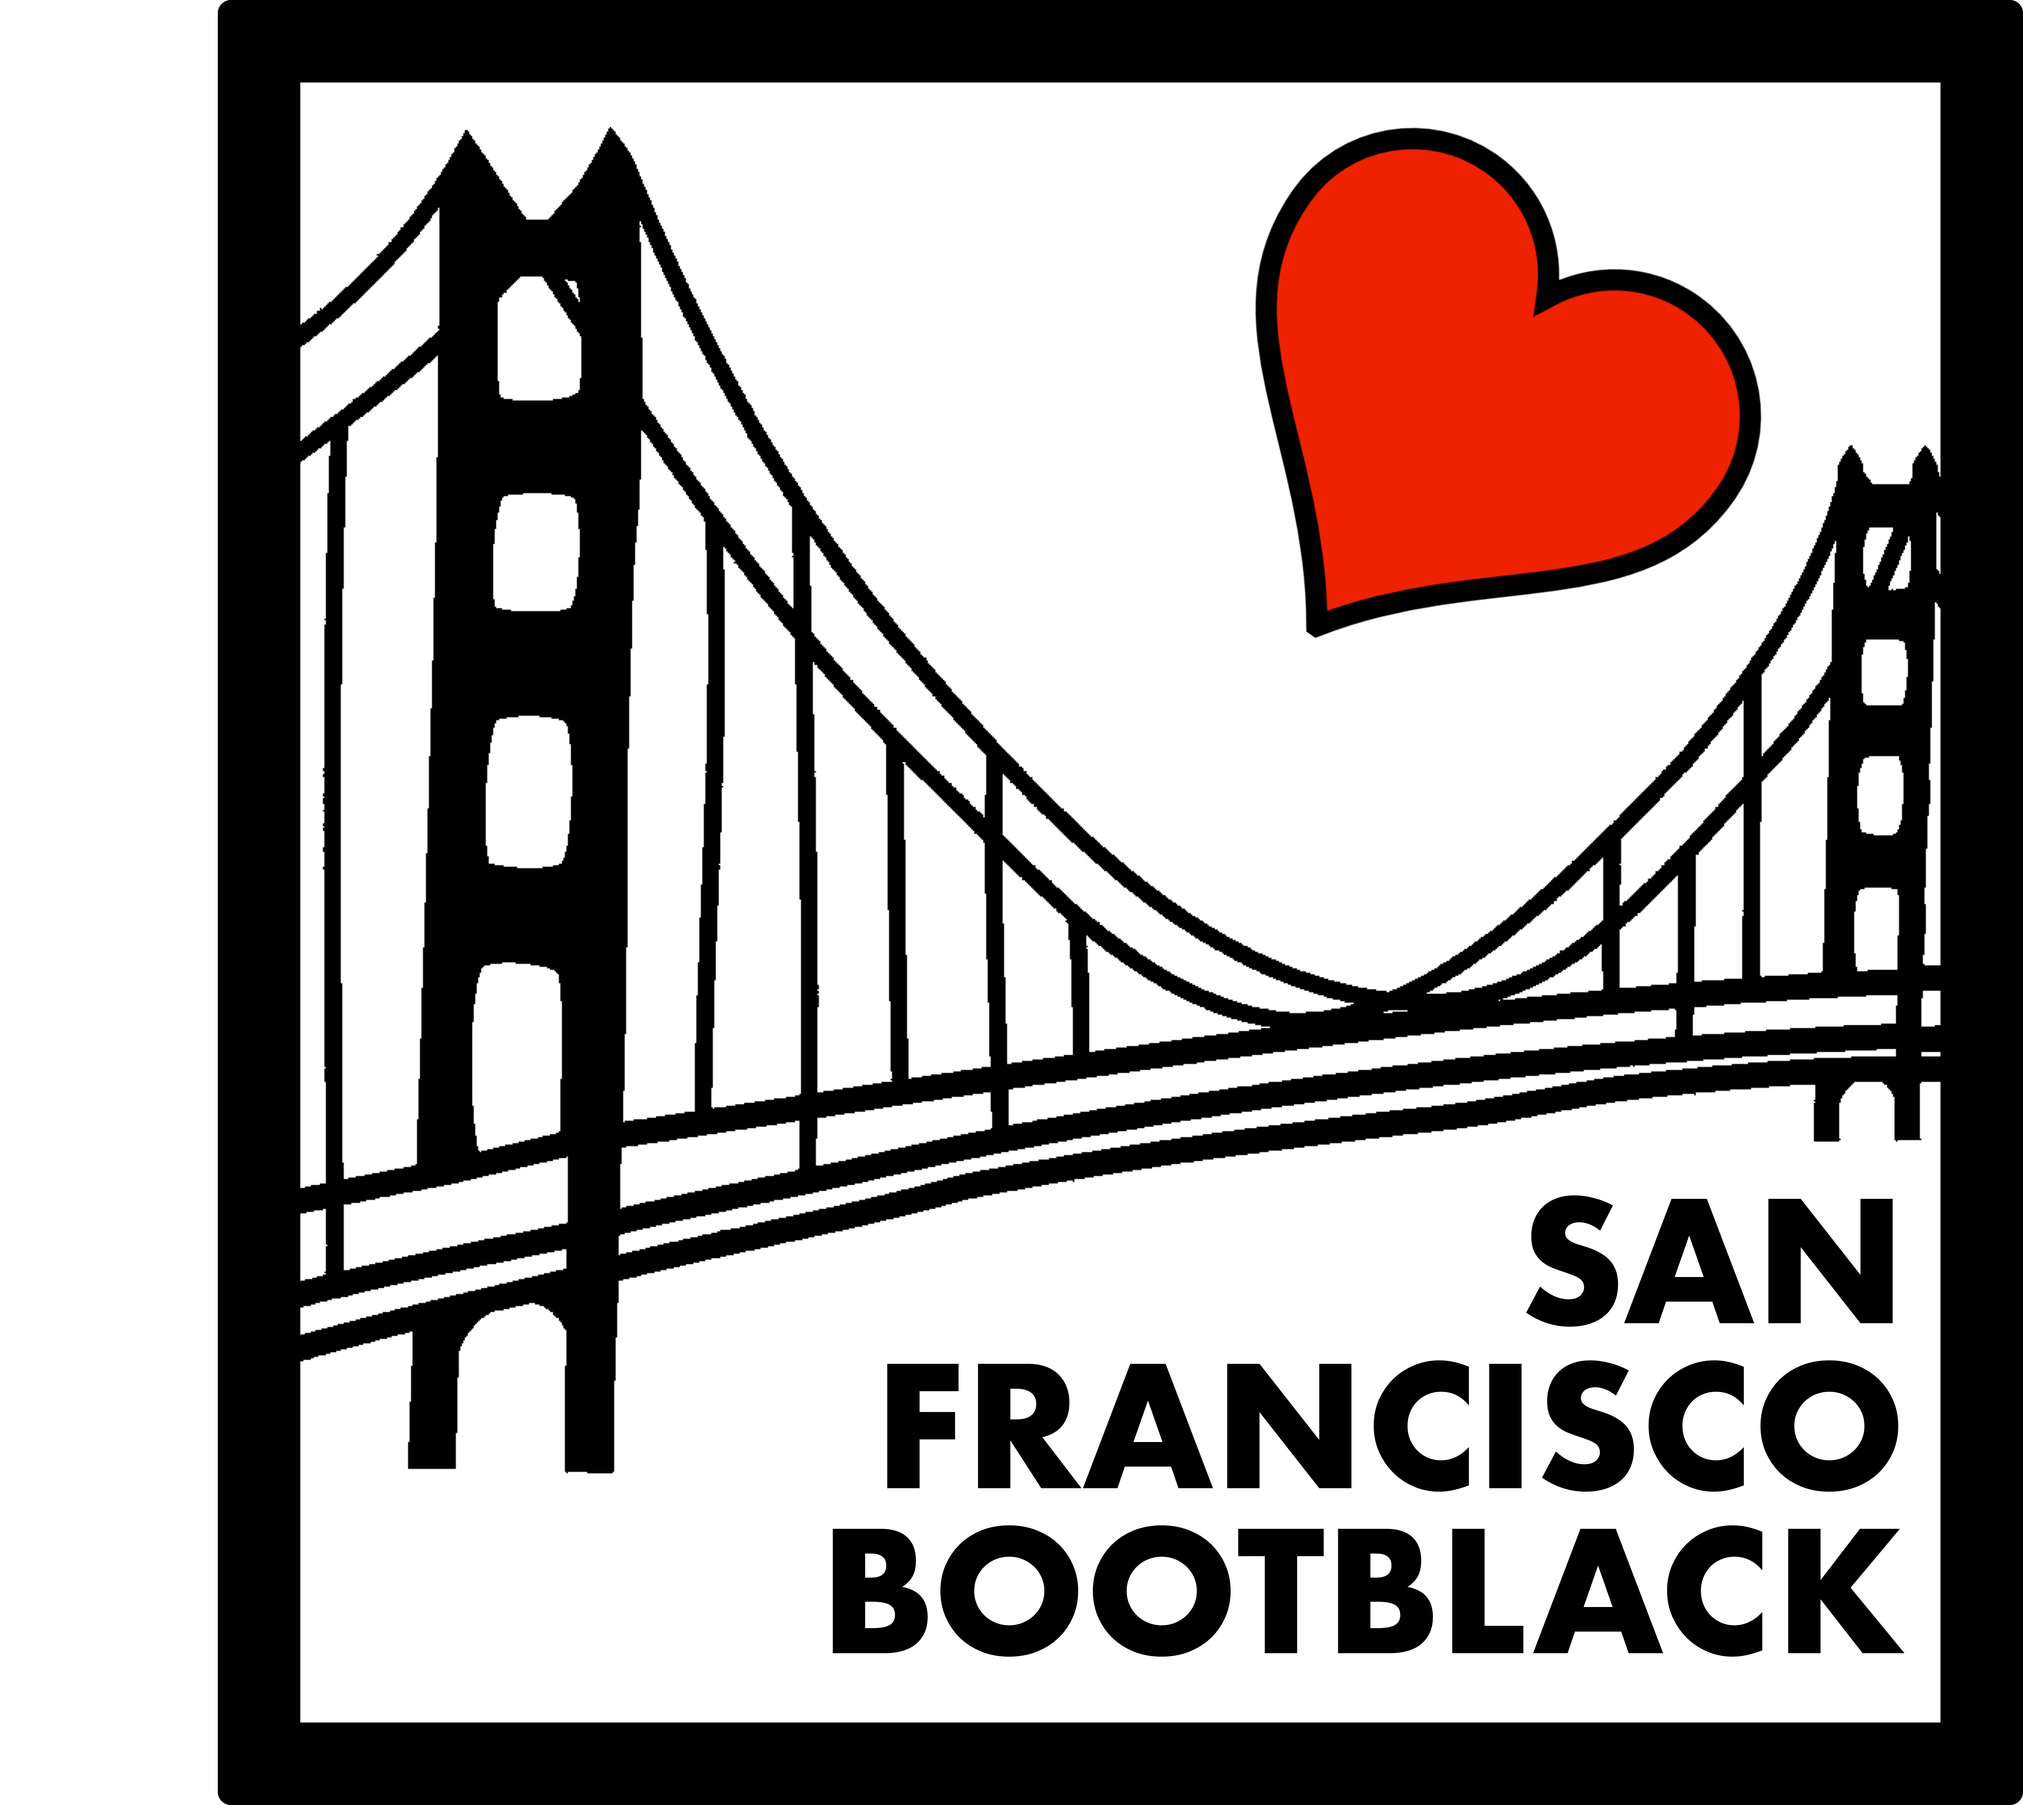
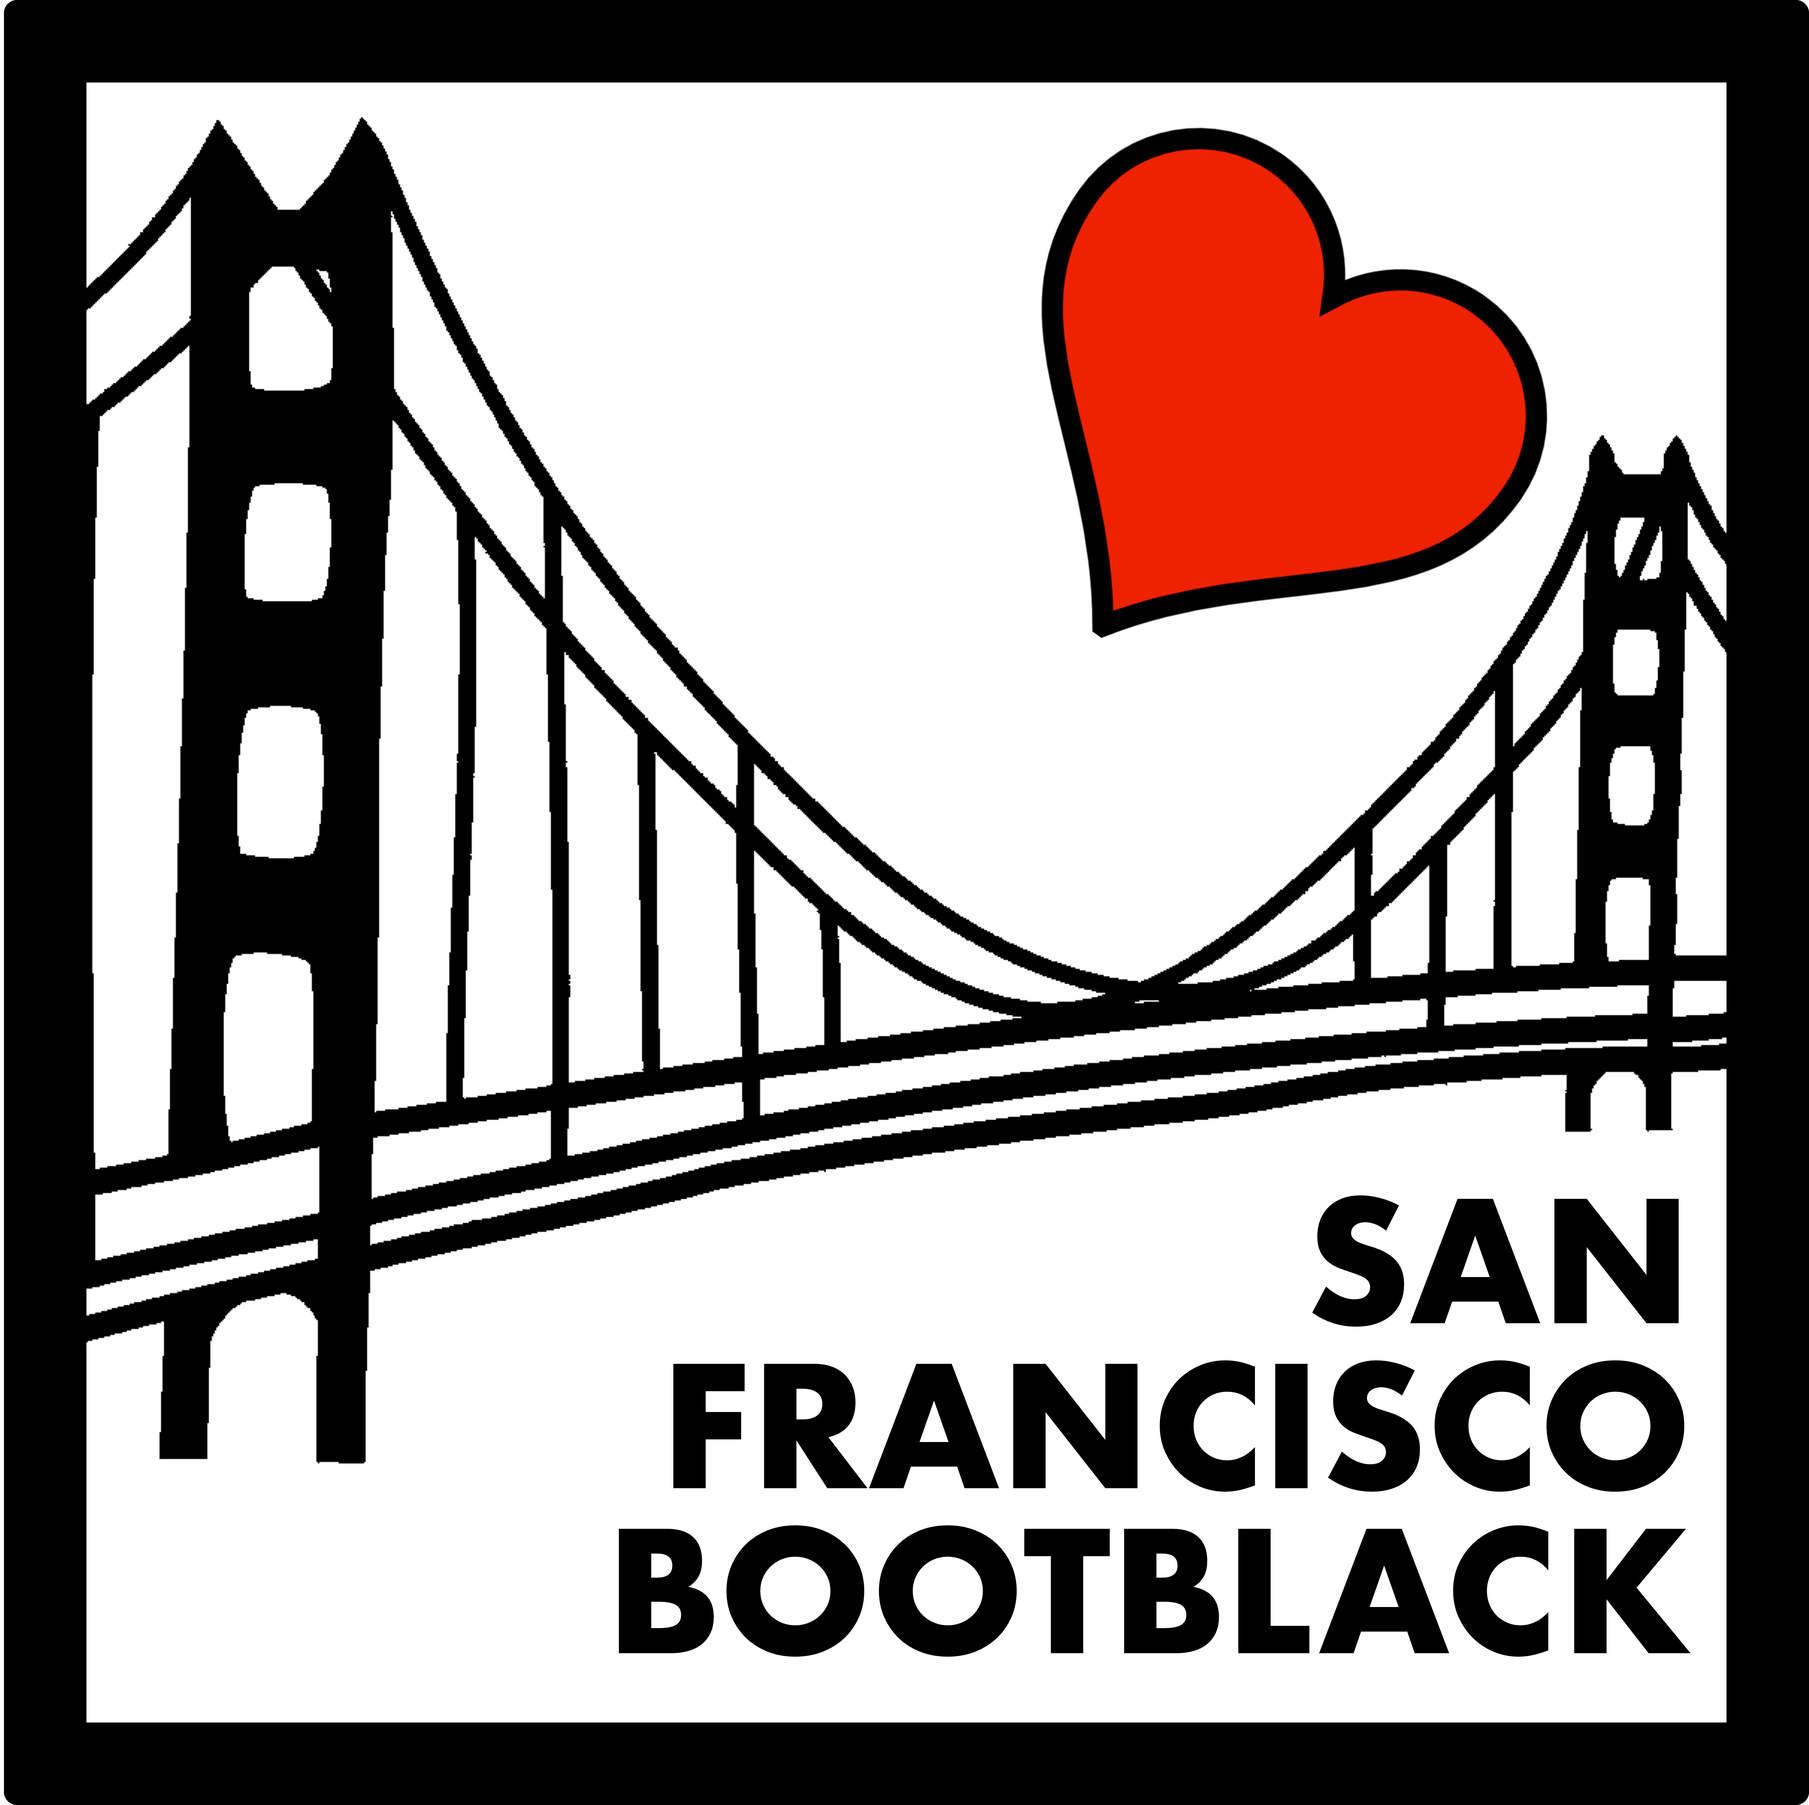
update site

diff --git a/index.html b/index.html
@@ -41,5 +41,5 @@ header-img: "images/sf1.jpg"
 </ul>
 {% endif %}
 
-<img src="images/SFBB-square.png" style="height: 100px; display: inline-block" />
+<img src="images/final_logo.png" style="height: 100px; display: inline-block" />
 <img src="/images/sfba_logo.png" style="height: 100px; display: inline-block" />

diff --git a/_pages/about.md b/_pages/about.md
@@ -7,4 +7,38 @@ header-img: "images/closeup.jpg"
 
 ## About The Contest
 
-Under Construction!
+<div class="row">
+<div class="col-sm-8">
+<p>
+The San Francisco Bootblack title is open to individuals of **without regard to gender** who
+identify as bootblacks and who live or work in the greater San Francisco Bay Area.
+The region is loosely defined and includes Santa Rosa, Sacremento, San Jose, Santa Cruz etc.
+</p>
+
+<p>
+The SFBB title is the first bootblack title to represent the Northern California region since
+the Northern California Community Bootblack title shut down after Scout was it's last
+titleholder in 2013.
+</p>
+
+<p>
+The SFBB Contest is designed to blend some of the components of both the IMBB title
+and the IMsBB title, in order to help prepare contestants should they choose to compete
+for further titles.
+</p>
+</div>
+<div class="col-sm-4">
+  <img src="/images/final_logo.png" style="height: 300px; display: inline-block" />
+</div>
+</div>
+
+## History
+
+The San Francisco Bootblack contest was started by the SF Bay Area Leather Alliance
+to contribute to the growth of the Leather Alliance Weekend. Local bootblack and Southwest
+Bootblack 2017 petitioned the board to add the title with a proposal during a
+board meeting in June of 2017.
+
+## Getting Involved
+
+Email producer[at]sanfranciscobootblack.com to get involved!
